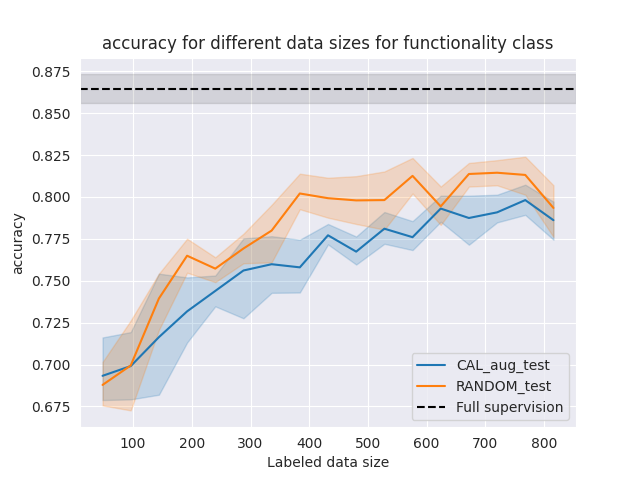
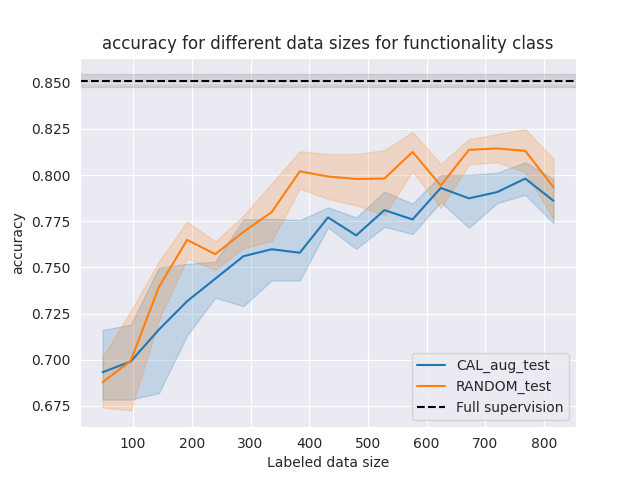
add fully seupervised results on the test set

diff --git a/src/active_learning/visualisation.py b/src/active_learning/visualisation.py
@@ -51,8 +51,15 @@ def plot_al_results(strategies, config: ml_collections.ConfigDict, metrics):
             sns.lineplot(x=x, y=y, label=strategy)
           
           plt.xlabel('Labeled data size')
-          plt.ylabel(metric)
-          plt.title(f'{metric} for different data sizes')
+          metric_name = metric.replace('_', ' ')
+          if 'time' in metric_name:
+            plt.ylabel(f'{metric_name} [s]')
+          elif 'f1' in metric_name:
+            metric_name = 'F1-score'
+            plt.ylabel(f'{metric_name}')
+          else:
+            plt.ylabel(f'{metric_name}')
+          plt.title(f'{metric_name} for different data sizes')
 
       
       if metric in results_supervised:

diff --git a/src/main.py b/src/main.py
@@ -84,7 +84,8 @@ def main():
         config, 
         device=device,
         strategy_type=Strategy[args.al_strategy], 
-        first_sample_stratified=args.al_stratified)
+        first_sample_stratified=args.al_stratified,
+        classes_to_track=[i for i in range(8)])
 
   # Data Augmentation Experiment.
   elif args.experiment == 'augmentation':

diff --git a/src/run_al_experiment.py b/src/run_al_experiment.py
@@ -161,6 +161,8 @@ def run_supervised_experiment(
   classes_to_track=[0,1]):
 
   valid_loader, test_loader = create_dataloader(config, 'valid')
+  test_loader = create_dataloader(config, 'test')
+
   results = initialize_results_dict(classes_to_track)
   del results['split']
   del results['sampling_emissions']
